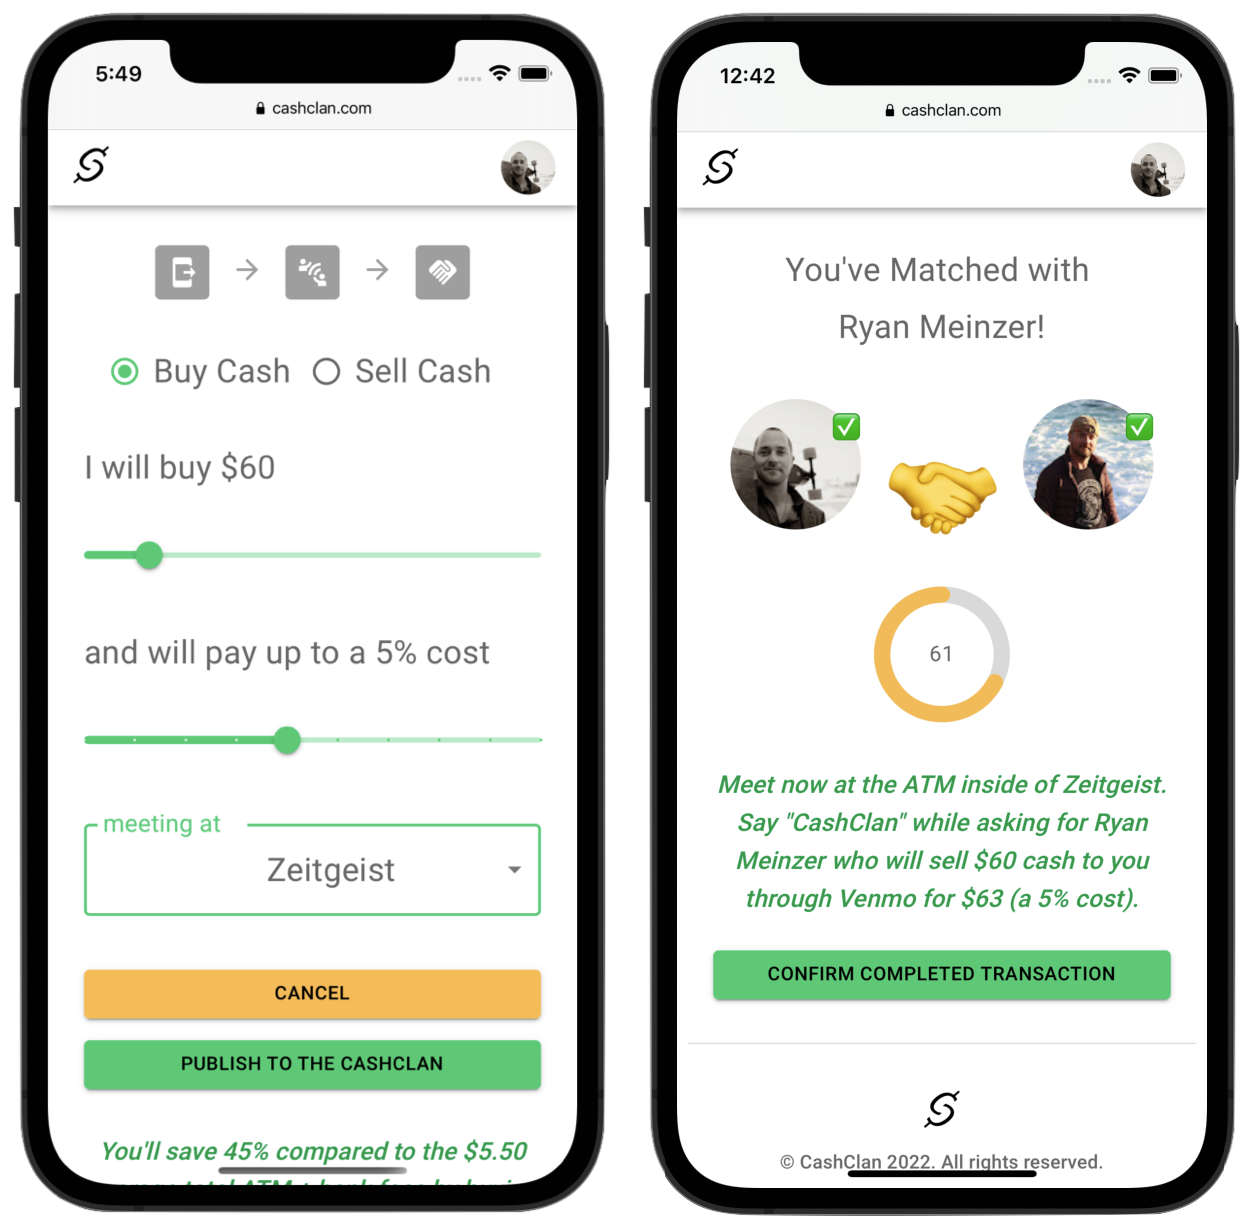
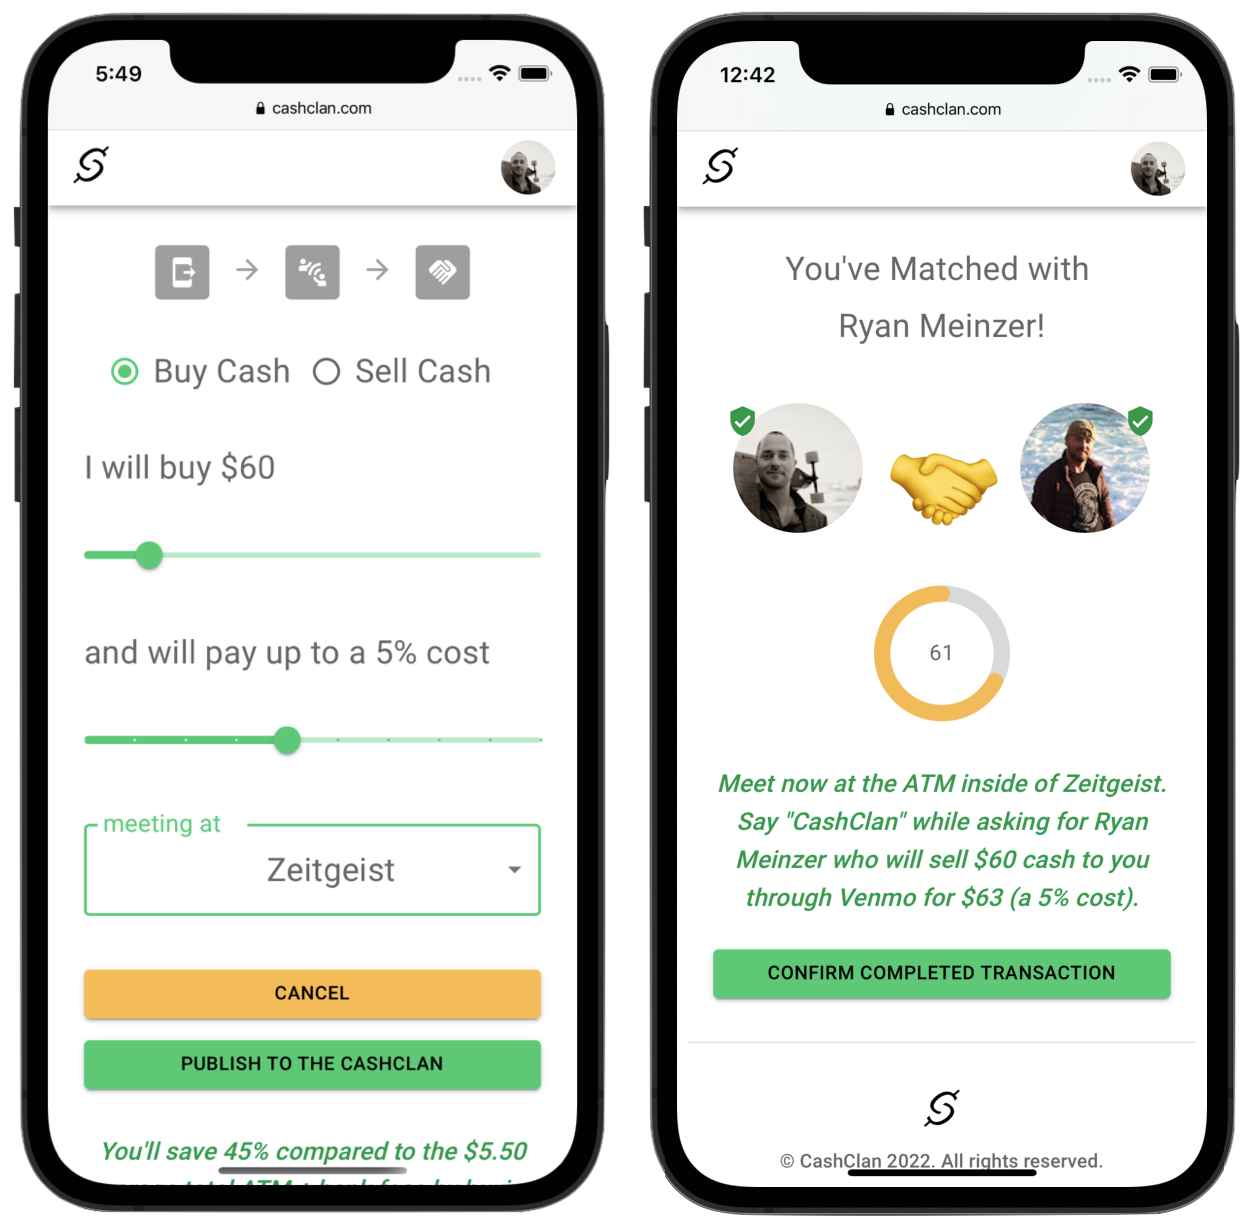
updated match graphics and respective screenshots

diff --git a/src/Transaction.js b/src/Transaction.js
@@ -4,6 +4,10 @@ import {CountdownCircleTimer} from 'react-countdown-circle-timer'
 import Box from '@mui/material/Box'
 import Typography from '@mui/material/Typography'
 import Button from '@mui/material/Button'
+import Avatar from '@mui/material/Avatar'
+import Stack from '@mui/material/Stack'
+import Badge from '@mui/material/Badge'
+import VerifiedUserIcon from '@mui/icons-material/VerifiedUser'
 
 const Transaction = ({mode, transactionTerms, match, isMd}) => {
 
@@ -70,30 +74,84 @@ const Transaction = ({mode, transactionTerms, match, isMd}) => {
                                 matchPrivates.image
                                 &&
                                 <Box>
-                                    <Box sx={{align: "center"}}>
-                                        <Box sx={{mb: 2}}>
-                                            <span style={{position: "relative"}}>
-                                                <img src={member.image} alt="profile" style={{borderRadius: "50%"}} />
-                                                <span style={{position: "absolute", top: -75, right: 0}}>✅</span>
-                                            </span>
-                                            <span style={{fontSize: '5rem'}}> 🤝 </span>
-                                            <span style={{position: "relative"}}>
-                                                <img src={matchPrivates.image} alt="profile" style={{borderRadius: "50%"}} />
-                                                <span style={{position: "absolute", top: -75, right: 0}}>✅</span>
-                                            </span>
-                                            </Box>
-                                        <CountdownCircleTimer
-                                            isPlaying
-                                            duration={90}
+                                        <Box sx={{align: "center", color: 'warning.dark'}}>
+                                            <Stack direction="row" spacing={2} sx={{justifyContent: 'center', mb: 4}}>
+                                                <Badge
+                                                    overlap="circular"
+                                                    anchorOrigin={{
+                                                        vertical: 'top',
+                                                        horizontal: 'left',
+                                                    }}
+                                                    sx={{
+                                                        '& .MuiBadge-badge': {
+                                                            left: 7
+                                                        }
+                                                    }}
+                                                    badgeContent={
+                                                        <VerifiedUserIcon
+                                                            sx={{
+                                                                color: "primary.dark",
+                                                            }}
+                                                        />
+                                                    }
+                                                >
+                                                    <Avatar
+                                                        alt={member.name}
+                                                        src={member.image}
+                                                        sx={{
+                                                            width: '6rem',
+                                                            height: '6rem',
+                                                            bgcolor: 'warning.dark'
+                                                        }}
+                                                    />
+                                                </Badge>
+                                                <Box sx={{alignSelf: 'flex-end'}}>
+                                                    <Typography
+                                                        fontSize="5rem"
+                                                        sx={{mb: -3, ml: .5}}
+                                                    >🤝</Typography>
+                                                </Box>
+                                                <Badge
+                                                    overlap="circular"
+                                                    anchorOrigin={{
+                                                        vertical: 'top',
+                                                        horizontal: 'right',
+                                                    }}
+                                                    sx={{
+                                                        '& .MuiBadge-badge': {
+                                                            right: 7
+                                                        },
+                                                    }}
+                                                    badgeContent={
+                                                        <VerifiedUserIcon
+                                                            sx={{
+                                                                color: "primary.dark"
+                                                            }} />
+                                                    }
+                                                >
+                                                    <Avatar
+                                                        alt={matchPrivates.name}
+                                                        src={matchPrivates.image}
+                                                        sx={{
+                                                            width: '6rem',
+                                                            height: '6rem',
+                                                            bgcolor: 'warning.dark'
+                                                        }}
+                                                    />
+                                                </Badge>
+                                            </Stack>
+                                            <CountdownCircleTimer
+                                                isPlaying
+                                                duration={90}
                                                 colors={['#33cc70', '#ffb84d', '#A30000', '#A30000']}
-                                            colorsTime={[90, 60, 30, 0]}
-                                            size={100}
+                                                colorsTime={[90, 60, 30, 0]}
+                                                size={100}
                                                 onComplete={() => {
                                                     return {shouldRepeat: true}
-                                            }}
-                                        >
+                                                }}
+                                            >
                                                 {({remainingTime}) => <Typography color="text.secondary">{remainingTime}</Typography>}
-                                        </CountdownCircleTimer>
+                                            </CountdownCircleTimer>
                                         </Box>
                                     </Box>
                             }
